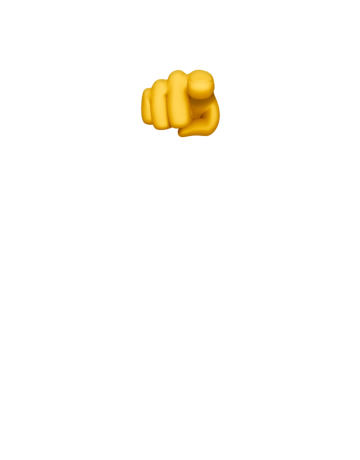
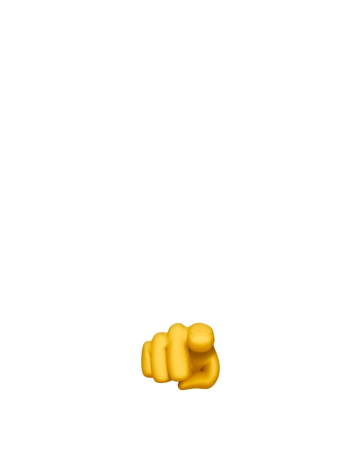
fixed img z-index at exportCard img

Changed region(s): [[0.3667, 0.7, 0.6111, 0.8522], [0.3667, 0.1522, 0.6111, 0.3043]]

diff --git a/src/components/ExportCard/index.jsx b/src/components/ExportCard/index.jsx
@@ -6,7 +6,7 @@ const ExportCard = ({
   customTextRecipient,
   customText,
   customTextSender,
-  customCardData
+  customCardData,
 }) => {
   return (
     <div className={styles.exportCard}>
@@ -18,28 +18,32 @@ const ExportCard = ({
         />
       </div>
       <div className={styles.exportCardBack}>
+        <div className={styles.exportCardBackBody}>
+          {customTextRecipient ? (
+            <p className={styles.exportCardBackTextRecipient}>
+              {customTextRecipient}
+            </p>
+          ) : (
+            <p className={styles.exportCardBackTextRecipient}>Кому</p>
+          )}
+          {customText ? (
+            <p className={styles.exportCardBackText}>{customText}</p>
+          ) : (
+            <p className={styles.exportCardBackText}>Ваше пожелание</p>
+          )}
+          {customTextSender ? (
+            <p className={styles.exportCardBackTextSender}>
+              {customTextSender}
+            </p>
+          ) : (
+            <p className={styles.exportCardBackTextSender}>От кого</p>
+          )}
+        </div>
         <img
           className={styles.exportCardBackImg}
           src={customCardData.back_img}
           alt="backside"
         />
-        {customTextRecipient ? (
-          <p className={styles.exportCardBackTextRecipient}>
-            {customTextRecipient}
-          </p>
-        ) : (
-          <p className={styles.exportCardBackTextRecipient}>Кому</p>
-        )}
-        {customText ? (
-          <p className={styles.exportCardBackText}>{customText}</p>
-        ) : (
-          <p className={styles.exportCardBackText}>Ваше пожелание</p>
-        )}
-        {customTextSender ? (
-          <p className={styles.exportCardBackTextSender}>{customTextSender}</p>
-        ) : (
-          <p className={styles.exportCardBackTextSender}>От кого</p>
-        )}
       </div>
     </div>
   );

diff --git a/src/components/ExportCard/ExportCard.module.scss b/src/components/ExportCard/ExportCard.module.scss
@@ -51,11 +51,17 @@
 
             background-color: #fff;
 
+            .exportCardBackBody {
+                position: absolute;
+                top: 0;
+                z-index: 1;
+            }
+
             .exportCardBackImg {
                 position: absolute;
                 top: 0;
                 left: 0;
-                z-index: -1;
+                z-index: 0;
             }
 
             .exportCardBackTextRecipient {
